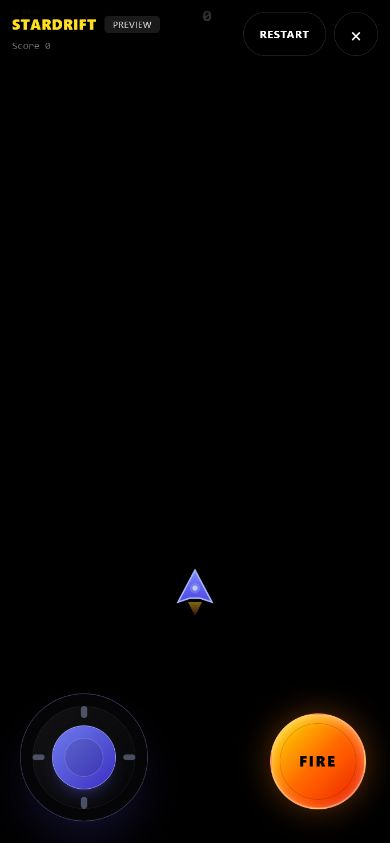
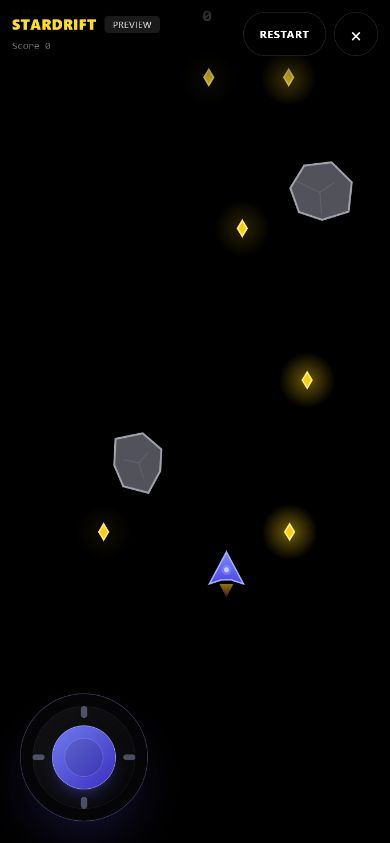
Focus owner preview on collecting stars

diff --git a/src/components/Game.tsx b/src/components/Game.tsx
@@ -14,8 +14,6 @@ const STAR_SIZE = 8;
 const ASTEROID_MIN = 18;
 const ASTEROID_MAX = 42;
 const BASE_SPEED = 150;
-const PROJECTILE_SPEED = 720;
-const FIRE_INTERVAL = 150;
 
 interface Particle {
   x: number;
@@ -34,14 +32,7 @@ interface ScreenShake {
   intensity: number;
 }
 
-interface Projectile {
-  x: number;
-  y: number;
-  vy: number;
-  life: number;
-}
-
-type SoundName = 'shoot' | 'collect' | 'destroy' | 'gameOver';
+type SoundName = 'thrust' | 'collect' | 'gameOver';
 
 export default function Game({ onGameOver, onPause, setScore, paused, enhancedControls = false }: Props) {
   const canvasRef = useRef<HTMLCanvasElement>(null);
@@ -50,7 +41,6 @@ export default function Game({ onGameOver, onPause, setScore, paused, enhancedCo
     player: { x: 0, y: 0, size: PLAYER_SIZE },
     stars: [] as { x: number; y: number; collected: boolean; glow: number }[],
     asteroids: [] as { x: number; y: number; size: number; vx: number; vy: number; rotation: number; rotSpeed: number }[],
-    projectiles: [] as Projectile[],
     particles: [] as Particle[],
     shake: { x: 0, y: 0, intensity: 0 } as ScreenShake,
     score: 0,
@@ -67,8 +57,6 @@ export default function Game({ onGameOver, onPause, setScore, paused, enhancedCo
   const joystickRef = useRef<HTMLDivElement>(null);
   const joystickPointerRef = useRef<number | null>(null);
   const joystickInputRef = useRef({ x: 0, y: 0 });
-  const fireHeldRef = useRef(false);
-  const lastShotRef = useRef(0);
   const audioContextRef = useRef<AudioContext | null>(null);
   const [joystickVisual, setJoystickVisual] = useState({ x: 0, y: 0, active: false });
   const spawnTimerRef = useRef(0);
@@ -98,9 +86,8 @@ export default function Game({ onGameOver, onPause, setScore, paused, enhancedCo
       duration: number;
       volume: number;
     }> = {
-      shoot: { type: 'square', start: 620, end: 260, duration: 0.08, volume: 0.055 },
+      thrust: { type: 'sawtooth', start: 120, end: 76, duration: 0.14, volume: 0.025 },
       collect: { type: 'sine', start: 660, end: 1040, duration: 0.16, volume: 0.09 },
-      destroy: { type: 'triangle', start: 190, end: 60, duration: 0.2, volume: 0.11 },
       gameOver: { type: 'sawtooth', start: 150, end: 42, duration: 0.5, volume: 0.12 },
     };
     const config = settings[sound];
@@ -181,24 +168,6 @@ export default function Game({ onGameOver, onPause, setScore, paused, enhancedCo
     spawnParticles(x, y, 15, '#facc15', 200);
   }, [spawnParticles]);
 
-  const shoot = useCallback(() => {
-    if (!enhancedControls) return;
-
-    const s = state.current;
-    const now = performance.now();
-    if (s.gameOver || s.paused || now - lastShotRef.current < FIRE_INTERVAL) return;
-
-    lastShotRef.current = now;
-    s.projectiles.push({
-      x: s.player.x,
-      y: s.player.y - s.player.size,
-      vy: -PROJECTILE_SPEED,
-      life: 1.4,
-    });
-    spawnParticles(s.player.x, s.player.y - s.player.size, 4, '#fde047', 70);
-    playSound('shoot');
-  }, [enhancedControls, playSound, spawnParticles]);
-
   const triggerShake = useCallback((intensity: number) => {
     state.current.shake.intensity = intensity;
   }, []);
@@ -278,32 +247,6 @@ export default function Game({ onGameOver, onPause, setScore, paused, enhancedCo
       ctx.lineWidth = 1.5;
       ctx.stroke();
 
-      ctx.restore();
-    }
-
-    if (enhancedControls) {
-      // Draw player projectiles
-      ctx.save();
-      ctx.lineCap = 'round';
-      for (const projectile of s.projectiles) {
-        const laser = ctx.createLinearGradient(
-          projectile.x,
-          projectile.y + 15,
-          projectile.x,
-          projectile.y - 15
-        );
-        laser.addColorStop(0, 'rgba(249, 115, 22, 0)');
-        laser.addColorStop(0.35, '#facc15');
-        laser.addColorStop(1, '#ffffff');
-        ctx.shadowColor = '#facc15';
-        ctx.shadowBlur = 14;
-        ctx.strokeStyle = laser;
-        ctx.lineWidth = 4;
-        ctx.beginPath();
-        ctx.moveTo(projectile.x, projectile.y + 12);
-        ctx.lineTo(projectile.x, projectile.y - 14);
-        ctx.stroke();
-      }
       ctx.restore();
     }
 
@@ -434,7 +377,7 @@ export default function Game({ onGameOver, onPause, setScore, paused, enhancedCo
 
     ctx.restore();
     ctx.restore();
-  }, [enhancedControls]);
+  }, []);
 
   const gameLoop = useCallback((time: number) => {
     const s = state.current;
@@ -461,13 +404,9 @@ export default function Game({ onGameOver, onPause, setScore, paused, enhancedCo
     if (keysRef.current.has('ArrowDown') || keysRef.current.has('KeyS')) s.player.y += playerSpeed * dt;
 
     if (enhancedControls) {
-      // Owner-preview joystick and shooting
+      // Owner-preview joystick movement
       s.player.x += joystickInputRef.current.x * playerSpeed * dt;
       s.player.y += joystickInputRef.current.y * playerSpeed * dt;
-
-      if (fireHeldRef.current || keysRef.current.has('Space')) {
-        shoot();
-      }
     } else if (touchRef.current.active) {
       // Current public touch-and-drag movement
       const tx = touchRef.current.x;
@@ -520,18 +459,6 @@ export default function Game({ onGameOver, onPause, setScore, paused, enhancedCo
       }
     }
 
-    if (enhancedControls) {
-      // Update projectiles
-      for (let i = s.projectiles.length - 1; i >= 0; i--) {
-        const projectile = s.projectiles[i];
-        projectile.y += projectile.vy * dt;
-        projectile.life -= dt;
-        if (projectile.y < -30 || projectile.life <= 0) {
-          s.projectiles.splice(i, 1);
-        }
-      }
-    }
-
     // Update stars
     const starSpeed = 80 + diffRef.current * 6;
     for (let i = s.stars.length - 1; i >= 0; i--) {
@@ -557,33 +484,6 @@ export default function Game({ onGameOver, onPause, setScore, paused, enhancedCo
         triggerShake(3 + diffRef.current * 0.3);
         if (enhancedControls) playSound('collect');
         s.stars.splice(i, 1);
-      }
-    }
-
-    if (enhancedControls) {
-      // Projectile collision
-      for (let pIndex = s.projectiles.length - 1; pIndex >= 0; pIndex--) {
-        const projectile = s.projectiles[pIndex];
-        let destroyed = false;
-        for (let aIndex = s.asteroids.length - 1; aIndex >= 0; aIndex--) {
-          const asteroid = s.asteroids[aIndex];
-          const dx = projectile.x - asteroid.x;
-          const dy = projectile.y - asteroid.y;
-          const hitRadius = asteroid.size * 0.72 + 5;
-          if (dx * dx + dy * dy < hitRadius * hitRadius) {
-            s.projectiles.splice(pIndex, 1);
-            s.asteroids.splice(aIndex, 1);
-            s.score += 5;
-            setScore(s.score);
-            spawnParticles(asteroid.x, asteroid.y, 26, '#f97316', 260);
-            spawnParticles(asteroid.x, asteroid.y, 14, '#a5b4fc', 180);
-            triggerShake(4);
-            playSound('destroy');
-            destroyed = true;
-            break;
-          }
-        }
-        if (destroyed) continue;
       }
     }
 
@@ -613,7 +513,7 @@ export default function Game({ onGameOver, onPause, setScore, paused, enhancedCo
     renderCanvas();
 
     animFrameRef.current = requestAnimationFrame(gameLoop);
-  }, [enhancedControls, onGameOver, setScore, shoot, spawnAsteroid, spawnStar, spawnScoreParticles, spawnExplosion, spawnParticles, triggerShake, playSound, updateParticles, updateShake, renderCanvas]);
+  }, [enhancedControls, onGameOver, setScore, spawnAsteroid, spawnStar, spawnScoreParticles, spawnExplosion, triggerShake, playSound, updateParticles, updateShake, renderCanvas]);
 
   // Resize
   const handleResize = useCallback(() => {
@@ -640,15 +540,11 @@ export default function Game({ onGameOver, onPause, setScore, paused, enhancedCo
   // Keyboard
   const handleKeyDown = useCallback((e: KeyboardEvent) => {
     keysRef.current.add(e.code);
-    if (enhancedControls && e.code === 'Space') {
-      e.preventDefault();
-      shoot();
-    }
     if ((e.code === 'Escape' || e.code === 'KeyP') && !state.current.gameOver) {
       e.preventDefault();
       onPause();
     }
-  }, [enhancedControls, onPause, shoot]);
+  }, [onPause]);
 
   const handleKeyUp = useCallback((e: KeyboardEvent) => {
     keysRef.current.delete(e.code);
@@ -720,7 +616,8 @@ export default function Game({ onGameOver, onPause, setScore, paused, enhancedCo
     joystickPointerRef.current = e.pointerId;
     e.currentTarget.setPointerCapture(e.pointerId);
     updateJoystick(e.clientX, e.clientY);
-  }, [updateJoystick]);
+    playSound('thrust');
+  }, [playSound, updateJoystick]);
 
   const handleJoystickPointerMove = useCallback((e: ReactPointerEvent<HTMLDivElement>) => {
     if (joystickPointerRef.current !== e.pointerId) return;
@@ -734,18 +631,6 @@ export default function Game({ onGameOver, onPause, setScore, paused, enhancedCo
     resetJoystick();
   }, [resetJoystick]);
 
-  const handleFirePointerDown = useCallback((e: ReactPointerEvent<HTMLButtonElement>) => {
-    e.preventDefault();
-    e.currentTarget.setPointerCapture(e.pointerId);
-    fireHeldRef.current = true;
-    shoot();
-  }, [shoot]);
-
-  const handleFirePointerEnd = useCallback((e: ReactPointerEvent<HTMLButtonElement>) => {
-    e.preventDefault();
-    fireHeldRef.current = false;
-  }, []);
-
   // Init
   useEffect(() => {
     const s = state.current;
@@ -755,14 +640,11 @@ export default function Game({ onGameOver, onPause, setScore, paused, enhancedCo
     s.paused = false;
     s.asteroids = [];
     s.stars = [];
-    s.projectiles = [];
     s.particles = [];
     s.shake = { x: 0, y: 0, intensity: 0 };
     diffRef.current = 1;
     spawnTimerRef.current = 0;
     starTimerRef.current = 0;
-    lastShotRef.current = 0;
-    fireHeldRef.current = false;
     resetJoystick();
 
     handleResize();
@@ -790,7 +672,6 @@ export default function Game({ onGameOver, onPause, setScore, paused, enhancedCo
       document.removeEventListener('touchend', handleTouchEnd);
       cancelAnimationFrame(animFrameRef.current);
       if (gameOverTimerRef.current) clearTimeout(gameOverTimerRef.current);
-      fireHeldRef.current = false;
       joystickInputRef.current = { x: 0, y: 0 };
       if (audioContextRef.current) {
         void audioContextRef.current.close();
@@ -843,23 +724,6 @@ export default function Game({ onGameOver, onPause, setScore, paused, enhancedCo
           </div>
         </div>
 
-        <button
-          type="button"
-          aria-label="Fire"
-          onPointerDown={handleFirePointerDown}
-          onPointerUp={handleFirePointerEnd}
-          onPointerCancel={handleFirePointerEnd}
-          onLostPointerCapture={handleFirePointerEnd}
-          className="pointer-events-auto absolute right-6 md:right-10 w-24 h-24 md:w-28 md:h-28 rounded-full
-                     border-2 border-orange-200/60 bg-gradient-to-br from-yellow-300 via-orange-500 to-red-600
-                     text-black font-black tracking-[0.14em] text-sm md:text-base
-                     shadow-[0_0_32px_rgba(249,115,22,0.38),inset_0_2px_10px_rgba(255,255,255,0.45)]
-                     active:scale-90 active:brightness-125 transition-transform touch-none select-none"
-          style={{ bottom: 'calc(env(safe-area-inset-bottom) + 34px)' }}
-        >
-          <span className="absolute inset-2 rounded-full border border-black/20" />
-          <span className="relative">FIRE</span>
-        </button>
       </div>
       )}
     </div>

diff --git a/src/components/AdminDashboard.tsx b/src/components/AdminDashboard.tsx
@@ -437,7 +437,7 @@ export default function AdminDashboard({ initialTab = 'scores' }: Props) {
                 </h2>
                 <p className="max-w-xl text-sm leading-6 text-zinc-400">
                   Launch a private, full-screen gameplay session with the new analog joystick,
-                  rapid-fire control, projectiles, scoring, and arcade sound effects.
+                  star collection, score tracking, asteroid dodging, and arcade sound effects.
                 </p>
 
                 <button
@@ -461,8 +461,8 @@ export default function AdminDashboard({ initialTab = 'scores' }: Props) {
             <div className="grid grid-cols-2 border-t border-zinc-800/80 bg-black/30 sm:grid-cols-4">
               {[
                 ['360°', 'Analog movement'],
-                ['HOLD', 'Rapid fire'],
-                ['4', 'Sound effects'],
+                ['★', 'Eat the stars'],
+                ['3', 'Sound effects'],
                 ['PRIVATE', 'Owner access'],
               ].map(([value, label]) => (
                 <div key={label} className="border-b border-r border-zinc-800/70 px-4 py-4 last:border-r-0 sm:border-b-0">

diff --git a/README.md b/README.md
@@ -4,8 +4,8 @@ Navigate your ship through asteroid fields, collect glowing stars, and survive a
 
 ## Features
 
-- 🚀 **Tight Controls** - WASD/Arrow keys, virtual joystick, and fire button
-- 🔊 **Arcade Sound** - Responsive firing, collection, explosion, and game-over effects
+- 🚀 **Tight Controls** - WASD/Arrow keys and a responsive virtual joystick
+- 🔊 **Arcade Sound** - Movement, star-collection, and game-over effects
 - ⭐ **Score System** - Collect stars for points, difficulty scales with score
 - 💥 **Juicy Feedback** - Screen shake, particle explosions, glowing effects
 - 📱 **Mobile Ready** - Full touch support, portrait orientation
